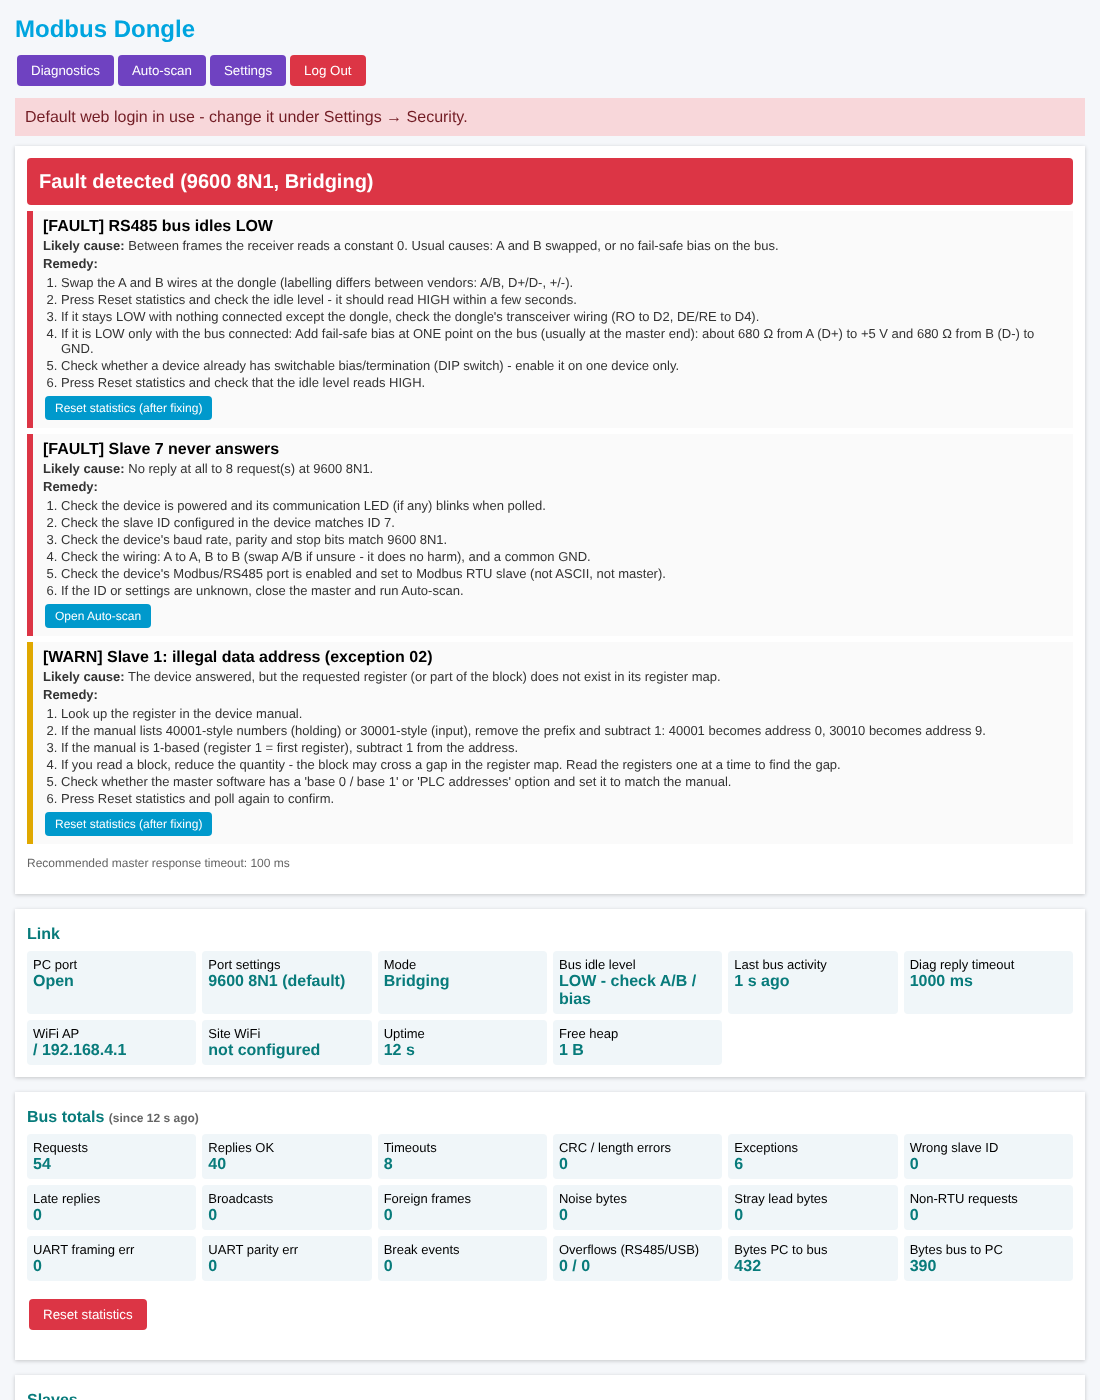
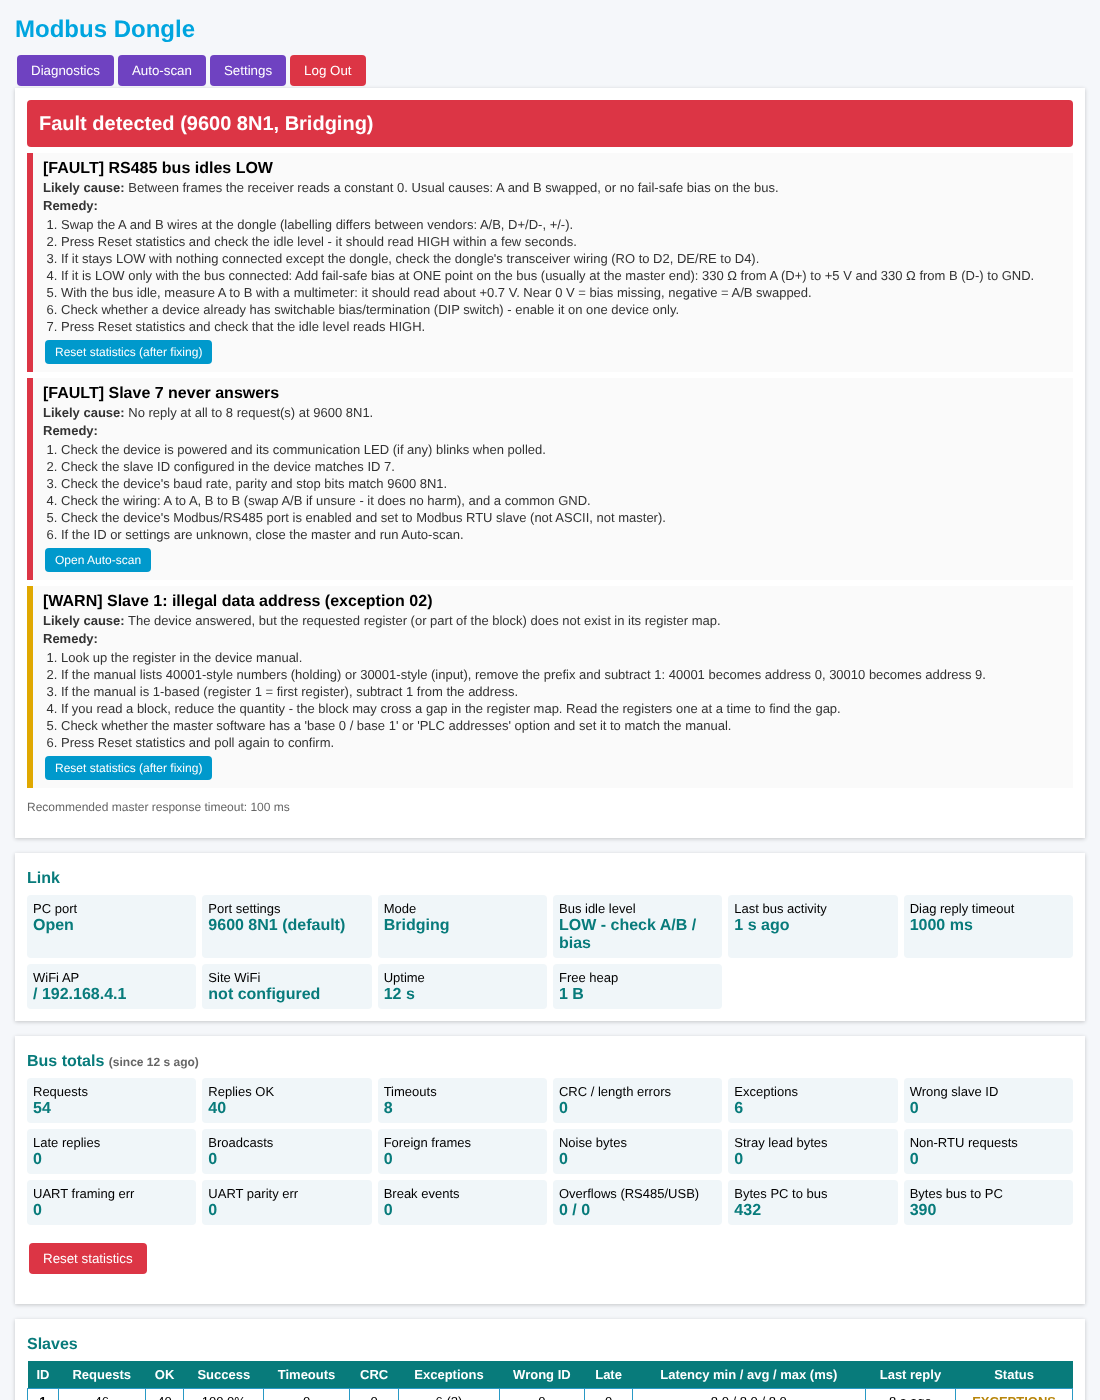
Use 330 ohm bias and +0.7 V idle A-B voltage in remedies and docs
- Bias remedy now specifies 330 ohm (A to +5 V, B to GND) at one point and
  tells the user to verify about +0.7 V A-B at idle; the break-event remedy
  uses +0.7 V as the expected reading (< +0.2 V = fault, negative = swapped)
- README: new "RS485 bus bias and termination" section with the bias,
  termination and idle-voltage values plus a reading/meaning table;
  remedies table updated
- Bench test: P4 bias/termination check, P5 idle A-B voltage measurement
  (about +0.7 V, recorded in the results sheet), D5 expects about -0.7 V
  when A/B are swapped, new optional D5b bias-removed test, troubleshooting row
- Dashboard screenshot regenerated

Claude-Session: https://claude.ai/code/session_01LcKjj2CsCTURc2MKnZD6zf

diff --git a/README.md b/README.md
@@ -27,6 +27,25 @@ RS485 handling as the Gateway firmware.
 | WiFi | Onboard | Access Point for the diagnostics page, plus optional site WiFi |
 | USB-C | — | PC link (USB CDC) |
 
+### RS485 bus bias and termination
+
+| Item | Value |
+|---|---|
+| Fail-safe bias (at **one** point on the bus) | **330 Ω** from A (D+) to +5 V, and **330 Ω** from B (D-) to GND |
+| Termination | 120 Ω across A-B at the two physical ends of the cable only |
+| Expected idle voltage A-B (bus powered, no traffic) | **about +0.7 V** |
+
+Measure the idle voltage with a multimeter, red lead on A and black lead on B:
+
+| Reading | Meaning |
+|---|---|
+| About +0.7 V | Correct: bias and termination as specified |
+| Between +0.2 V and about +0.5 V | Extra bias or termination somewhere: check that only one point has bias and only the two ends have 120 Ω |
+| Below +0.2 V, or near 0 V | Bias missing or not powered. RS485 receivers can't tell idle from data below +0.2 V |
+| Negative (about -0.7 V) | A and B swapped |
+
+The diagnostics page checks the same thing from the receiver side. *Bus idle level: HIGH* matches about +0.7 V; LOW matches a negative reading or missing bias.
+
 ## Converter features
 
 - **Follows the host's port settings.** The baud rate, data bits (5–8), parity
@@ -107,9 +126,9 @@ their raw request and reply bytes in hex.
 
   | Finding | Likely cause | Remedy (summary) |
   |---|---|---|
-  | **RS485 bus idles LOW** (FAULT) | A/B swapped, or no fail-safe bias | Swap A/B at the dongle. If it's still LOW with the bus connected, add about 680 Ω bias (A to +5 V, B to GND) at one point, or enable one device's bias switch |
-  | **Idle line level unstable** (WARN) | Floating bus picks up noise | Add bias at one point, 120 Ω termination at both ends, shielded twisted pair |
-  | **Line held LOW / break events** (WARN) | Swapped pair, short, or a transmitter stuck on | Check polarity, measure A-B idle voltage (+0.2 V or more is good), disconnect devices one at a time |
+  | **RS485 bus idles LOW** (FAULT) | A/B swapped, or no fail-safe bias | Swap A/B at the dongle. If it's still LOW with the bus connected, add 330 Ω bias (A to +5 V, B to GND) at one point, or enable one device's bias switch. Idle A-B should then read about **+0.7 V** |
+  | **Idle line level unstable** (WARN) | Floating bus picks up noise | Add 330 Ω bias at one point (idle A-B about +0.7 V), 120 Ω termination at both ends, shielded twisted pair |
+  | **Line held LOW / break events** (WARN) | Swapped pair, short, or a transmitter stuck on | Check polarity, measure the A-B idle voltage (about **+0.7 V** is correct; below +0.2 V is a fault, negative means swapped), disconnect devices one at a time |
   | **Slave N never answers** (FAULT) | Device off, wrong ID, wrong settings, or wiring | Power and LED, ID, baud/parity/stop, A/B and GND, port enabled as Modbus RTU slave; *Open Auto-scan* if unknown |
   | **Every reply is corrupted** (FAULT) | Baud/parity/stop-bit mismatch | Match the master to the device's settings exactly, or find them with Auto-scan; if they match, treat it as noise |
   | **A different device answers** (FAULT) | Device configured with another ID | The first reply byte in *Recent transactions* is the real ID: poll that ID or readdress the device |
@@ -125,7 +144,7 @@ their raw request and reply bytes in hex.
   | **Exception 0A/0B** (WARN) | Gateway can't route / target silent | Gateway unit-ID mapping, downstream device power and link, longer timeout |
   | **Slow responder** (INFO) | Device takes > 200 ms | Master timeout at least the recommended value, poll interval above it |
   | **Another device is talking on the bus** (WARN) | A second master is polling | Find it from the FOREIGN rows, stop or disconnect it, or use a separate segment |
-  | **Stray byte in front of replies** (WARN) | Transceiver switching without bias | Add fail-safe bias at one point |
+  | **Stray byte in front of replies** (WARN) | Transceiver switching without bias | Add 330 Ω fail-safe bias at one point, then check idle A-B is about +0.7 V |
   | **Noise between frames** (WARN) | Noise, or a device at another baud rate | Noise checklist, then Auto-scan for a mismatched device |
   | **UART framing/parity errors** (WARN) | Settings mismatch or distorted signal | Settings checklist if a device never answers, otherwise the noise checklist |
   | **Data overflow** (WARN) | PC not reading the port fast enough | Close other programs on the port, don't burst requests, another USB port/cable |

diff --git a/docs/BENCH_TEST.md b/docs/BENCH_TEST.md
@@ -69,6 +69,8 @@ Logic analyser (T6): CH1 = **D3 (TX)**, CH2 = **D4 (DE/RE)**, CH3 = **D2 (RX)**,
 | P1 | Visual: transceiver, A/B screw terminals, no solder bridges near D2–D4 | OK |
 | P2 | Relay/DO loads (D11, D12, D13, A4) connected as in the field, or disconnected | Recorded |
 | P3 | Modem board (if fitted) | Either state is fine; the firmware won't pulse PWRKEY |
+| P4 | Bias resistors: **330 Ω** A to +5 V and **330 Ω** B to GND, fitted at one point on the bus only. 120 Ω termination at the two cable ends only | Fitted as specified |
+| P5 | **After power-on, with no traffic:** measure A to B with a multimeter (red lead on A, black lead on B) | **About +0.7 V.** Below +0.2 V means bias missing; negative means A/B swapped; +0.2 to +0.5 V means extra bias or termination somewhere. Record the reading: ______ V |
 
 ---
 
@@ -213,7 +215,8 @@ finding clears.
 | **D2 Wrong slave ID** | Poll `--slave 77` (no such device) | **Slave 77 never answers** (FAULT), with the wiring/ID/settings checklist |
 | **D3 Wrong baud rate** | Slave at 19200, master opens at 9600 | **Slave N never answers** or **every reply is corrupted** (FAULT), mentioning baud/parity mismatch. Usually also **UART framing/parity errors** (WARN) |
 | **D4 Wrong parity** | Slave at 9600 E1, master at 9600 N1 | As D3. The finding names the PC's port settings (`9600 8N1`) |
-| **D5 A/B swapped** | Swap the A and B wires (bus with bias resistors) | **RS485 bus idles LOW** (FAULT) within about 3 s of the bus going quiet. Polls fail. Restore the wiring: the idle level goes back to HIGH (Reset statistics to clear old findings) |
+| **D5 A/B swapped** | Swap the A and B wires at the dongle (bus with 330 Ω bias) | A-B at the dongle reads about **-0.7 V**. **RS485 bus idles LOW** (FAULT) within about 3 s of the bus going quiet. Polls fail. Restore the wiring: A-B reads about +0.7 V again and the idle level goes back to HIGH (Reset statistics to clear old findings) |
+| **D5b Bias removed** (optional) | Disconnect the 330 Ω bias resistors | A-B reads near 0 V. **Idle line level unstable** or **RS485 bus idles LOW**, sometimes with **Stray byte in front of replies**. Refit the bias: A-B reads about +0.7 V again |
 | **D6 Device stops** | Poll continuously (`--repeat 200`), then power off the slave halfway | **Slave N stopped responding** (FAULT), showing how many requests succeeded first |
 | **D7 Illegal address** | `--addr 9999` (or any register the device doesn't have) | **Illegal data address (exception 02)** (WARN), with the 0-based / 4xxxx numbering hint |
 | **D8 Unsupported function** | Poll with a function code the device lacks (e.g. FC04 on a holding-register-only device) | **Function not supported (exception 01)** (WARN) |
@@ -261,6 +264,7 @@ Stop the Modbus master software before each scan (closing the COM port is enough
 
 | Test | Result (Pass / Fail / N/A) | Notes / measured values |
 |---|---|---|
+| P5 Idle A-B voltage | | V: |
 | T1 Flash | | |
 | T2 Boot | | |
 | T3 Enumeration | | Port name: |
@@ -308,6 +312,7 @@ Stop the Modbus master software before each scan (closing the COM port is enough
 | Fails only at low baud with "first byte missing" | Check T6b. DE must drop right after the last stop bit |
 | Fails only at high baud | Cable length or termination, or the transceiver's rated speed (MAX485 ≈ 2.5 Mbps max, some clones much lower) |
 | CRC errors that come and go under load (R1/R2) | Termination or biasing missing, ground loop, or noisy cable. Retest with a short bench cable |
+| Idle level LOW or UNSTABLE on the page | Measure A-B at idle: it should be about +0.7 V with the 330 Ω bias. Negative means A/B swapped; near 0 V means the bias is missing or unpowered |
 | Web page doesn't open | Check you are connected to the **ModbusDongle** WiFi and browsing to `http://192.168.4.1` (not https). Mobile phones may drop a WiFi network that has no internet access: turn off mobile data or tell the phone to stay connected |
 | Forgot the web or AP password | Open the COM port at **74880** baud and send `factory-reset-auth` (W12) |
 | Findings from an earlier fault still shown | Counters are cumulative: press **Reset statistics** after fixing a fault |
